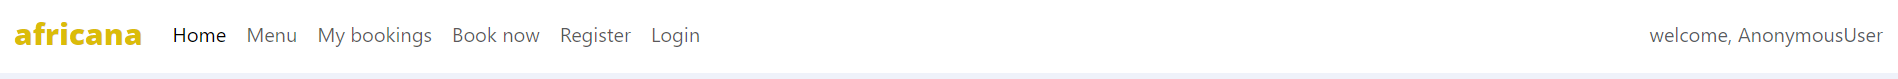
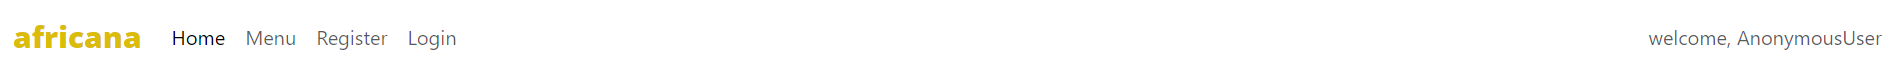
added read me images and updated the read me content

diff --git a/README.md b/README.md
@@ -78,7 +78,7 @@ The main page is as viewed below.
 <details>
 <summary>Africana website look at first glance</summary>
 
-![Home page](staticfiles/images/readme-images/home-page.PNG)
+![Home page](staticfiles/images/readme-images/home-page2.PNG)
 
 </details>
 <br />
@@ -190,7 +190,7 @@ Navigation bar for logged in users.
 
 ### Home page
 
-On the Home page, both authorised and unauthorised users can see the nav bar items, and also views the eatery/restaurant menu. 
+On the Home page, unauthorised users cannot see my bookings and book now links on the nav bar . 
 ![Home page](staticfiles/images/readme-images/home-page.PNG)
 
 ### Sign up page
